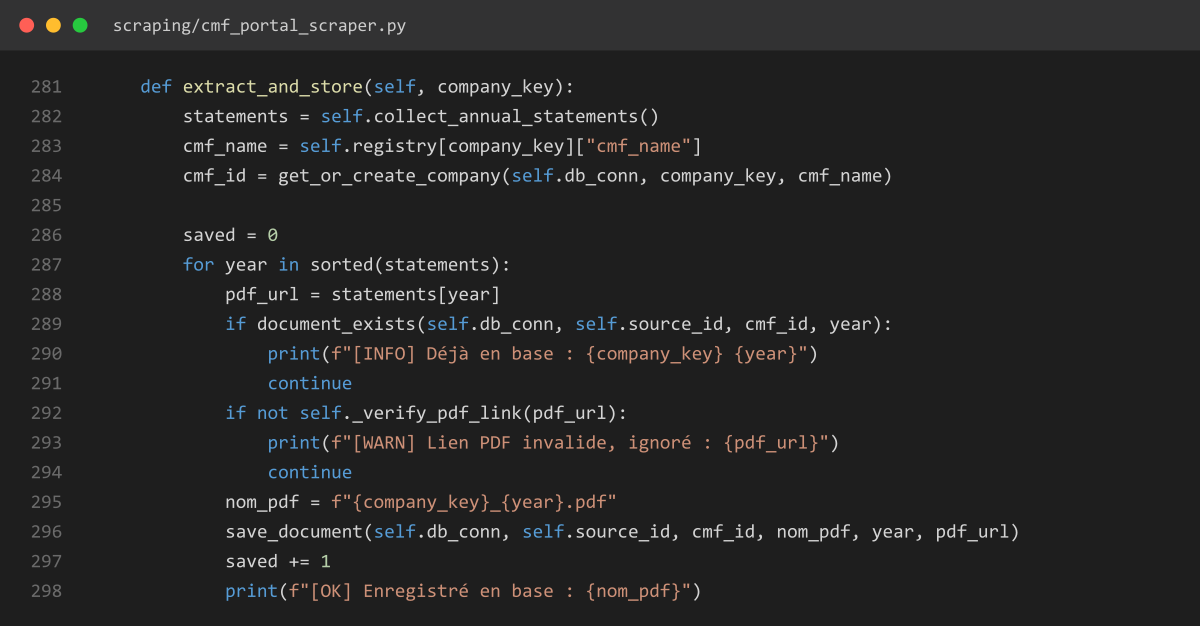
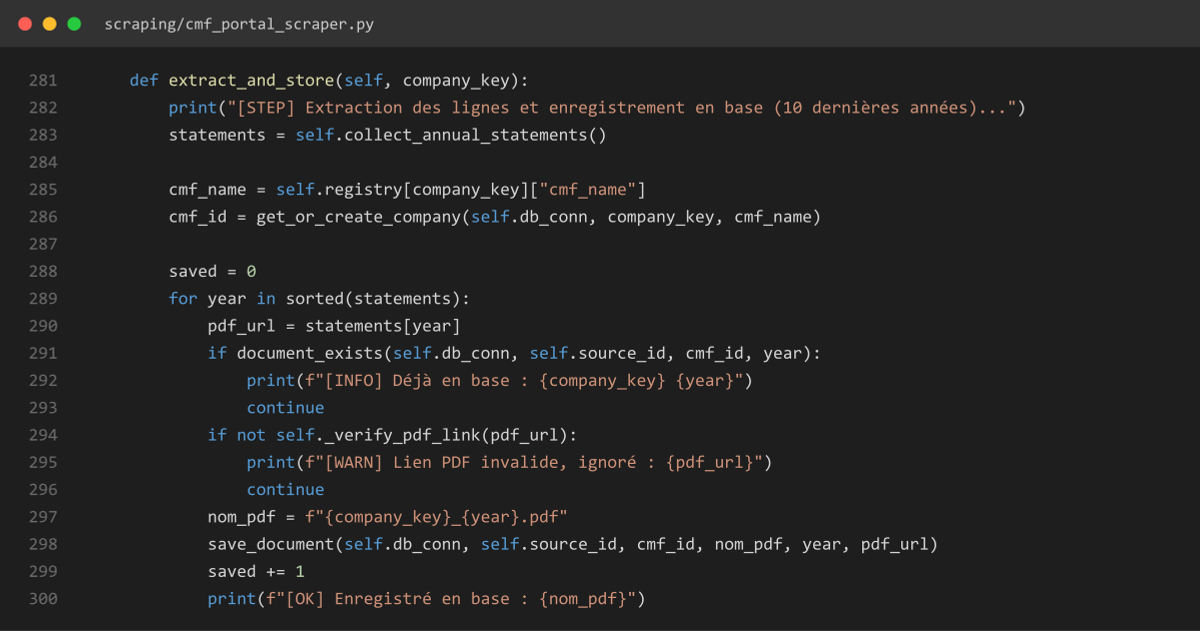
Partie 2 : liste des fichiers concernes + explication ligne par ligne
- Corrige les 2 captures de code pour qu'elles soient VERBATIM au
  fichier reel (une ligne avait ete raccourcie pour la largeur d'image,
  cassant la correspondance exacte avec scraping/cmf_portal_scraper.py
  ligne 325 ; la seconde capture omettait la ligne 282 reelle, decalant
  silencieusement toute la numerotation suivante)
- Ajoute une table "Fichiers concernes" listant tous les fichiers
  touches par le scraping (scrapers, veille, config, database)
- Ajoute un tableau ligne-par-ligne sous chaque capture de code

diff --git a/docs/fiche_technique_plateforme.md b/docs/fiche_technique_plateforme.md
@@ -39,6 +39,20 @@
 - CGA et FTUSA servent chacune 2 usages (rapports KPI + veille réglementaire), mais restent 1 source chacune
 - Chaque document passe ensuite par 4 étapes communes : lecture, filtrage, déduplication, sauvegarde des métadonnées seules (jamais le PDF)
 
+### Fichiers concernés
+
+| Fichier | Rôle |
+|---|---|
+| `scraping/cmf_portal_scraper.py` | Scraper CMF (Selenium) |
+| `scraping/ftusa_scraper.py` | Scraper FTUSA |
+| `scraping/cga_scraper.py` | Scraper CGA (rapports KPI) |
+| `scraping/bvmt_scraper.py` | Scraper BVMT |
+| `scraping/ins_scraper.py` | Scraper INS |
+| `api/routes/veille.py` | Atlas Magazine, IlBoursa, CGA/FTUSA réglementaire |
+| `scripts/seed_enquete_marche.py` | Chargement du fichier Excel ENQUETE |
+| `config/company_registry.py` | Reconnaissance des sociétés (`find_code_by_name`) |
+| `database/repository.py` | `document_exists`, `save_document`, `get_or_create_source` |
+
 ### Justification des outils
 
 | Méthode | Sources | Pourquoi (résumé) |
@@ -59,6 +73,23 @@ En cas d'échec à n'importe quelle étape : relance complète (×3), jamais une
 
 ![scraping/cmf_portal_scraper.py — lignes 310 à 328 — mécanisme de nouvelle tentative](diagrams/code_scraping_retry.png)
 
+| Ligne(s) | Explication |
+|---|---|
+| 310 | Définition de la méthode, 3 tentatives par défaut |
+| 311-315 | Commentaire : pourquoi on relance tout plutôt qu'une seule étape |
+| 316 | Mémorise la dernière erreur rencontrée |
+| 317 | Boucle sur les tentatives (1 à 3) |
+| 318 | Début du bloc "essayer" |
+| 319 | Ouvre la page du portail CMF |
+| 320 | Sélectionne la société dans le menu |
+| 321 | Clique sur le bouton de recherche |
+| 322 | Si tout est OK : extrait, enregistre, et sort de la fonction |
+| 323 | Intercepte une erreur de timeout |
+| 324 | Mémorise cette erreur |
+| 325 | Journalise la tentative échouée |
+| 326-327 | Si ce n'était pas la dernière tentative, attend 2 secondes |
+| 328 | Si tout a échoué, relève la dernière erreur |
+
 ---
 
 ![Zoom filtrage](diagrams/banner_zoom_filtrage.png)
@@ -75,7 +106,26 @@ Avant d'enregistrer un document, vérifier qu'il n'existe pas déjà en base (so
 
 ![Exemple de déduplication — cas du scraper CMF](diagrams/dedup_exemple_cmf.png)
 
-![scraping/cmf_portal_scraper.py — lignes 281 à 298 — déduplication et enregistrement](diagrams/code_scraping_dedup.png)
+![scraping/cmf_portal_scraper.py — lignes 281 à 300 — déduplication et enregistrement](diagrams/code_scraping_dedup.png)
+
+| Ligne(s) | Explication |
+|---|---|
+| 281 | Définition de la méthode |
+| 282 | Journalise le début de l'extraction |
+| 283 | Récupère la liste des états financiers annuels déjà filtrés |
+| 285 | Récupère le nom exact de la société attendu par le portail |
+| 286 | Récupère ou crée l'identifiant interne de la société en base |
+| 288 | Compteur de documents nouvellement enregistrés |
+| 289 | Boucle sur chaque année trouvée, dans l'ordre |
+| 290 | Récupère le lien du PDF pour cette année |
+| 291 | Vérifie si le document existe déjà en base (déduplication) |
+| 292-293 | Si oui : journalise et passe à l'année suivante |
+| 294 | Sinon, vérifie que le lien PDF répond bien |
+| 295-296 | Si le lien est invalide : journalise et passe à l'année suivante |
+| 297 | Construit le nom du fichier (société_année.pdf) |
+| 298 | Enregistre les métadonnées en base (pas le PDF) |
+| 299 | Incrémente le compteur |
+| 300 | Journalise la confirmation |
 
 ---
 
